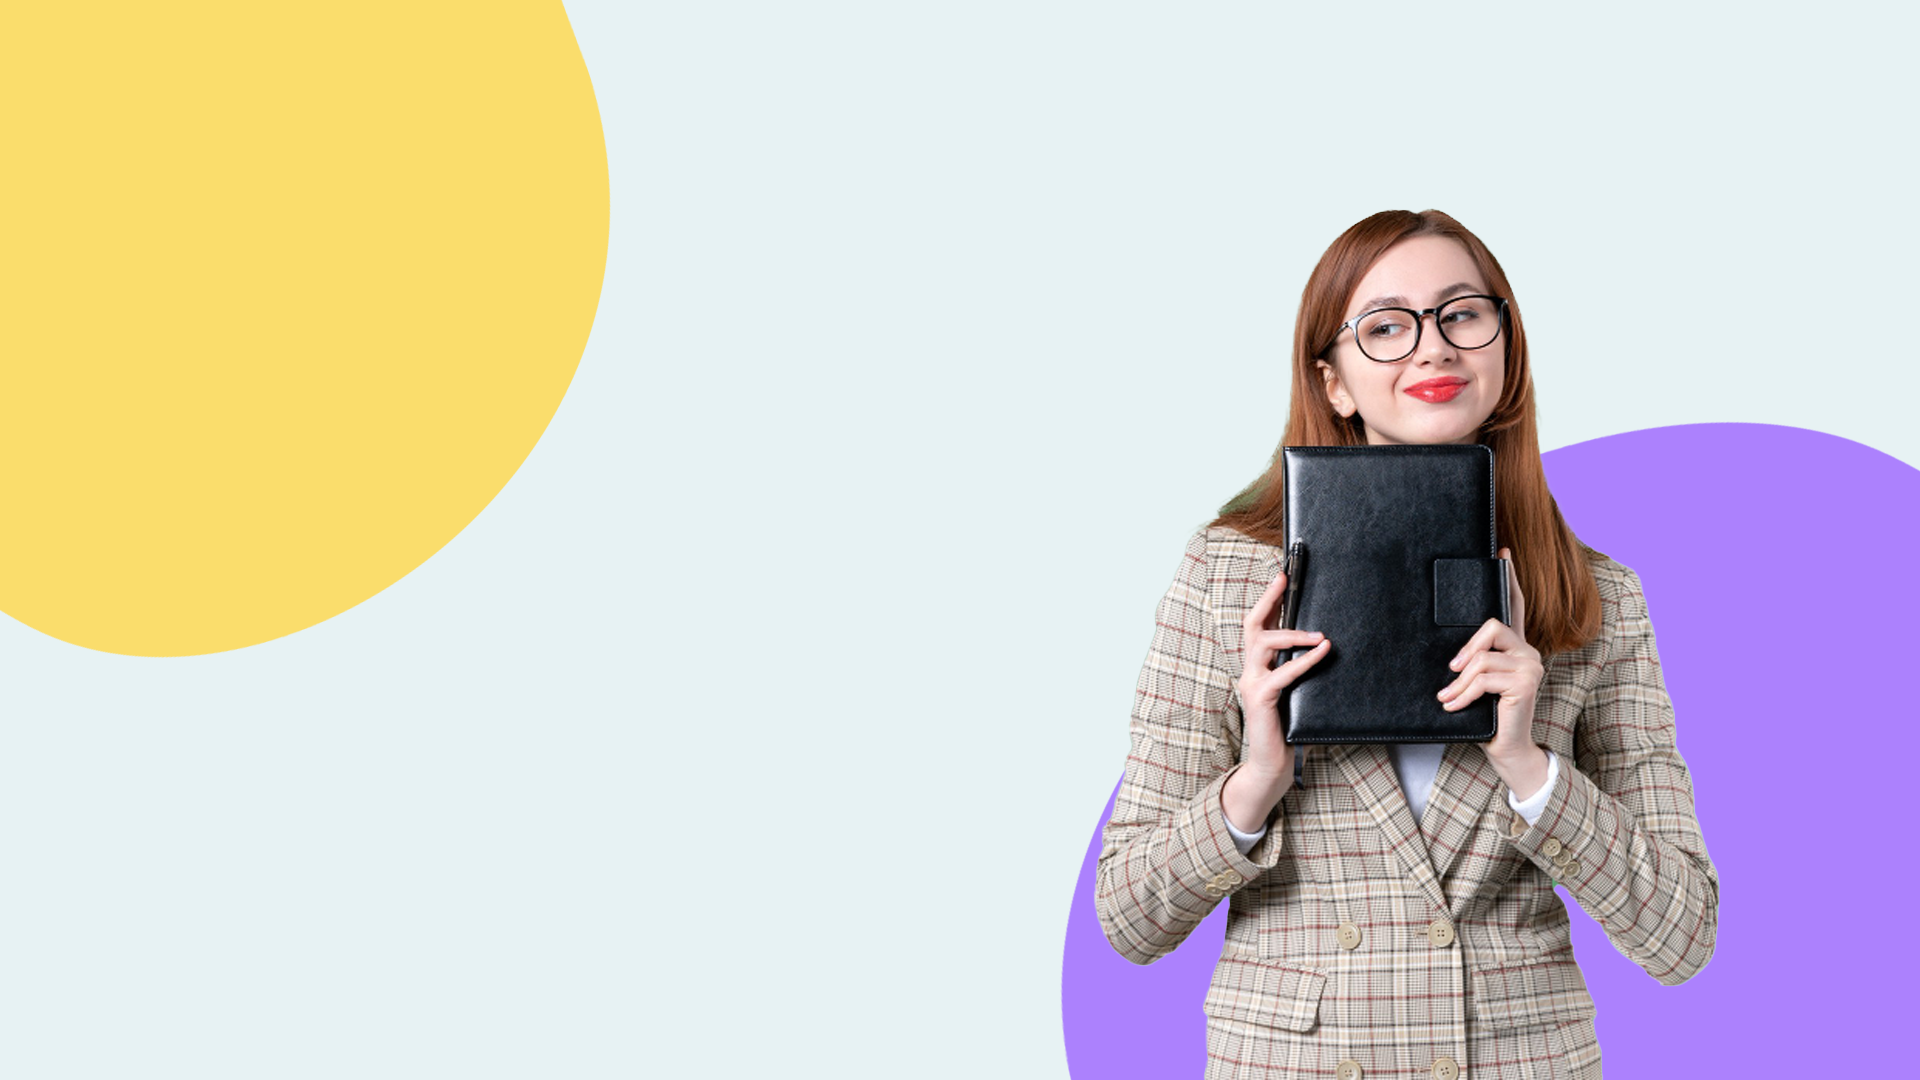
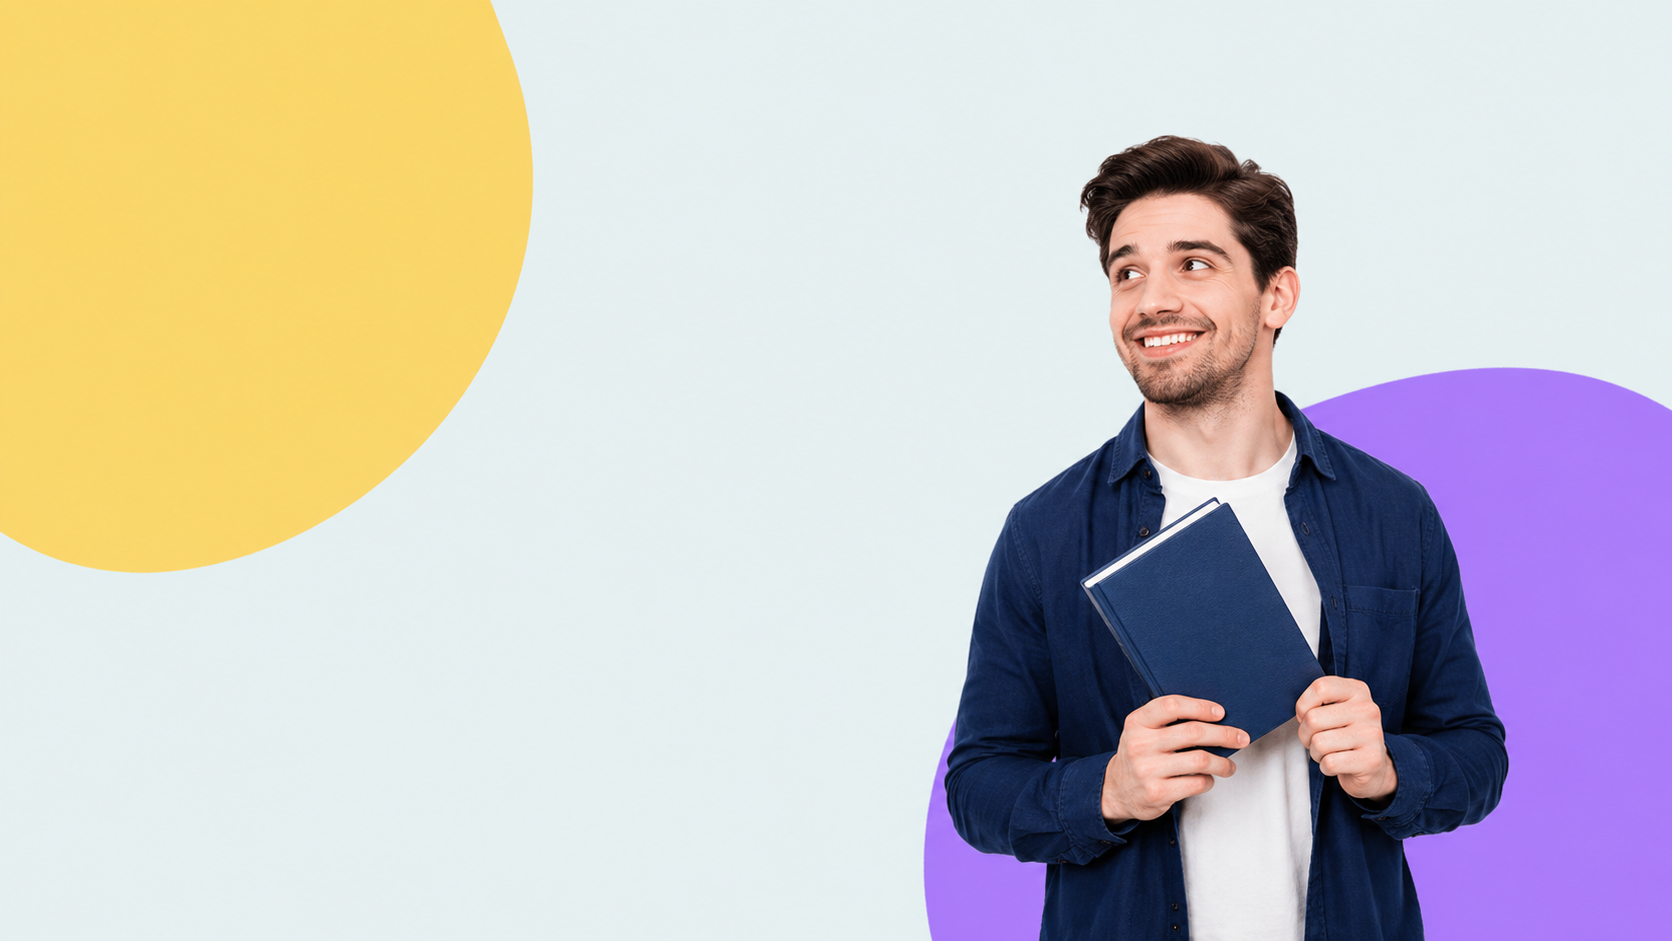
Homepage Update

Changed region(s): [[0.5598, 0.1233, 0.9019, 1.0]]

diff --git a/client/src/components/Hero.jsx b/client/src/components/Hero.jsx
@@ -23,7 +23,7 @@ const Hero = () => {
     // Getting popular books data
     const popularBooks = useMemo(() => {
         return books
-            .filter((item)=> item.popular)
+            .filter((item)=> item.popular && item.inStock)
             .sort((a, b) => new Date(b.createdAt) - new Date(a.createdAt))
             .slice(0, 6)
     },[books])

diff --git a/client/src/components/PopularBooks.jsx b/client/src/components/PopularBooks.jsx
@@ -18,7 +18,7 @@ const PopularBooks = () => {
   // Getting popular books data
   const popularBooks = useMemo(() => {
     return books
-      .filter((item) => item.popular)
+      .filter((item) => item.popular && item.inStock)
       .sort((a, b) => new Date(b.createdAt) - new Date(a.createdAt))
       .slice(0, 6)
   }, [books]);